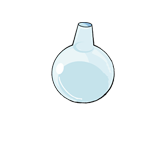
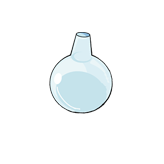
Added beaker stand and fixed alignment.

Changed region(s): [[0.2744, 0.122, 0.7012, 0.7012]]

diff --git a/source/Beaker.cpp b/source/Beaker.cpp
@@ -24,7 +24,7 @@ void CBeaker::Init()
 	beaker_image = Iw2DCreateImageResource("beaker");
 	beaker_sprite = new CSprite();
 	beaker_sprite->Init();
-	beaker_sprite->setPosAngScale(BEAKER_IMAGE_SIZE_WIDTH/2, screen_height - BEAKER_IMAGE_SIZE_HEIGHT/2, 0,IW_GEOM_ONE);  // center image vertically on screen
+	beaker_sprite->setPosAngScale(BEAKER_IMAGE_SIZE_WIDTH/2, screen_height - BEAKER_IMAGE_SIZE_HEIGHT/2-15, 0,IW_GEOM_ONE);  // center image vertically on screen
 	beaker_sprite->setImage(beaker_image);
 	beaker_sprite->setDestSize(BEAKER_IMAGE_SIZE_WIDTH, BEAKER_IMAGE_SIZE_HEIGHT);
 	g_Game.getSpriteManager()->addSprite(beaker_sprite);
@@ -33,16 +33,16 @@ void CBeaker::Init()
 	bunsen_image = Iw2DCreateImageResource("bunsen");
 	bunsen_sprite = new CSprite();
 	bunsen_sprite->Init();
-	bunsen_sprite->setPosAngScale(BEAKER_IMAGE_SIZE_WIDTH/2, screen_height - FLAME_IMAGE_SIZE_HEIGHT/2, 0, IW_GEOM_ONE);  // center image vertically on screen
+	bunsen_sprite->setPosAngScale(BEAKER_IMAGE_SIZE_WIDTH/2, screen_height - BEAKER_IMAGE_SIZE_WIDTH/2, 0, IW_GEOM_ONE);  // center image vertically on screen
 	bunsen_sprite->setImage(bunsen_image);
-	bunsen_sprite->setDestSize(BEAKER_IMAGE_SIZE_WIDTH, FLAME_IMAGE_SIZE_HEIGHT);
+	bunsen_sprite->setDestSize(BUNSEN_IMAGE_SIZE_WIDTH, BUNSEN_IMAGE_SIZE_HEIGHT);
 	g_Game.getSpriteManager()->addSprite(bunsen_sprite);
 
 	// Create flame sprite
 	flame_image = Iw2DCreateImageResource("flame");
 	flame_sprite = new CSprite();
 	flame_sprite->Init();
-	flame_sprite->setPosAngScale(BEAKER_IMAGE_SIZE_WIDTH/2, screen_height - FLAME_IMAGE_SIZE_HEIGHT/2 -25, 0, (iwfixed)(0.25f*IW_GEOM_ONE));  // center image vertically on screen
+	flame_sprite->setPosAngScale(BEAKER_IMAGE_SIZE_WIDTH/2, screen_height - FLAME_IMAGE_SIZE_HEIGHT/2 -20, 0, (iwfixed)(0.25f*IW_GEOM_ONE));  // center image vertically on screen
 	flame_sprite->setImage(flame_image);
 	flame_sprite->setDestSize(FLAME_IMAGE_SIZE_WIDTH, FLAME_IMAGE_SIZE_HEIGHT);
 	g_Game.getSpriteManager()->addSprite(flame_sprite);
@@ -88,7 +88,7 @@ CAtom* CBeaker::setAtom(CAtom* newAtom)
 
 	// set atom position to the center of the beaker
 	IwGxSetScreenSpaceSlot(10);
-	currentAtom->setPosition(BEAKER_IMAGE_SIZE_WIDTH/2, (Iw2DGetSurfaceHeight() - BEAKER_IMAGE_SIZE_HEIGHT/2));
+	currentAtom->setPosition(BEAKER_IMAGE_SIZE_WIDTH/2, (Iw2DGetSurfaceHeight() - BEAKER_IMAGE_SIZE_HEIGHT/2)-15);
 	currentAtom->setVelocity(0, 0);
 	IwGxSetScreenSpaceSlot(-1);
 	return prevAtom;

diff --git a/source/Beaker.h b/source/Beaker.h
@@ -9,6 +9,9 @@
 #define BEAKER_IMAGE_SIZE_WIDTH			164
 #define BEAKER_IMAGE_SIZE_HEIGHT		164
 
+#define BUNSEN_IMAGE_SIZE_WIDTH			164
+#define BUNSEN_IMAGE_SIZE_HEIGHT		184
+
 #define FLAME_IMAGE_SIZE_WIDTH			64
 #define FLAME_IMAGE_SIZE_HEIGHT			64
 
